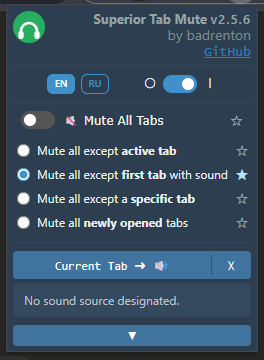
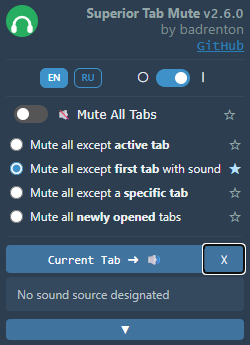
upd

diff --git a/popup.html b/popup.html
@@ -80,9 +80,8 @@
             </div>
 
             <div id="remember-option-wrapper" class="hidden">
-                <label class="remember-option-label">
-                    <span class="toggle-label" data-locale="rememberLastTab"
-                        data-locale-title="rememberLastTabDesc"></span>
+                <label class="remember-option-label" data-locale-title="rememberLastTabDesc">
+                    <span class="toggle-label" data-locale="rememberLastTab"></span>
                     <div class="toggle-switch"><input type="checkbox" id="remember-last-tab-toggle"><span
                             class="slider"></span></div>
                 </label>
@@ -96,7 +95,7 @@
                 </div>
                 <div id="current-sound-source-display" class="current-sound-source-display"></div>
                 <div class="expandable-content hidden">
-                    <label class="show-all-tabs-label"><input type="checkbox" id="show-all-tabs-first-sound"><span
+                    <label class="show-all-tabs-label" data-locale-title="showAllTabsDesc"><input type="checkbox" id="show-all-tabs-first-sound"><span
                             data-locale="showAllTabs"></span></label>
                     <ul id="first-sound-tabs-list"></ul>
                 </div>
@@ -109,7 +108,7 @@
                         data-locale-title="clearSource">☓</button>
                 </div>
                 <div class="expandable-content">
-                    <label class="show-all-tabs-label"><input type="checkbox" id="show-all-tabs-whitelist"><span
+                    <label class="show-all-tabs-label" data-locale-title="showAllTabsDesc"><input type="checkbox" id="show-all-tabs-whitelist"><span
                             data-locale="showAllTabs"></span></label>
                     <ul id="audible-tabs-list"></ul>
                 </div>

diff --git a/popup.css b/popup.css
@@ -448,7 +448,8 @@ input[type="radio"] {
     align-items: center;
     justify-content: flex-end;
     gap: 8px;
-    margin: 12px 6px 8px 0;
+    margin: 12px 6px 8px auto;
+    width: fit-content;
     font-family: "Verdana", sans-serif;
 }
 
